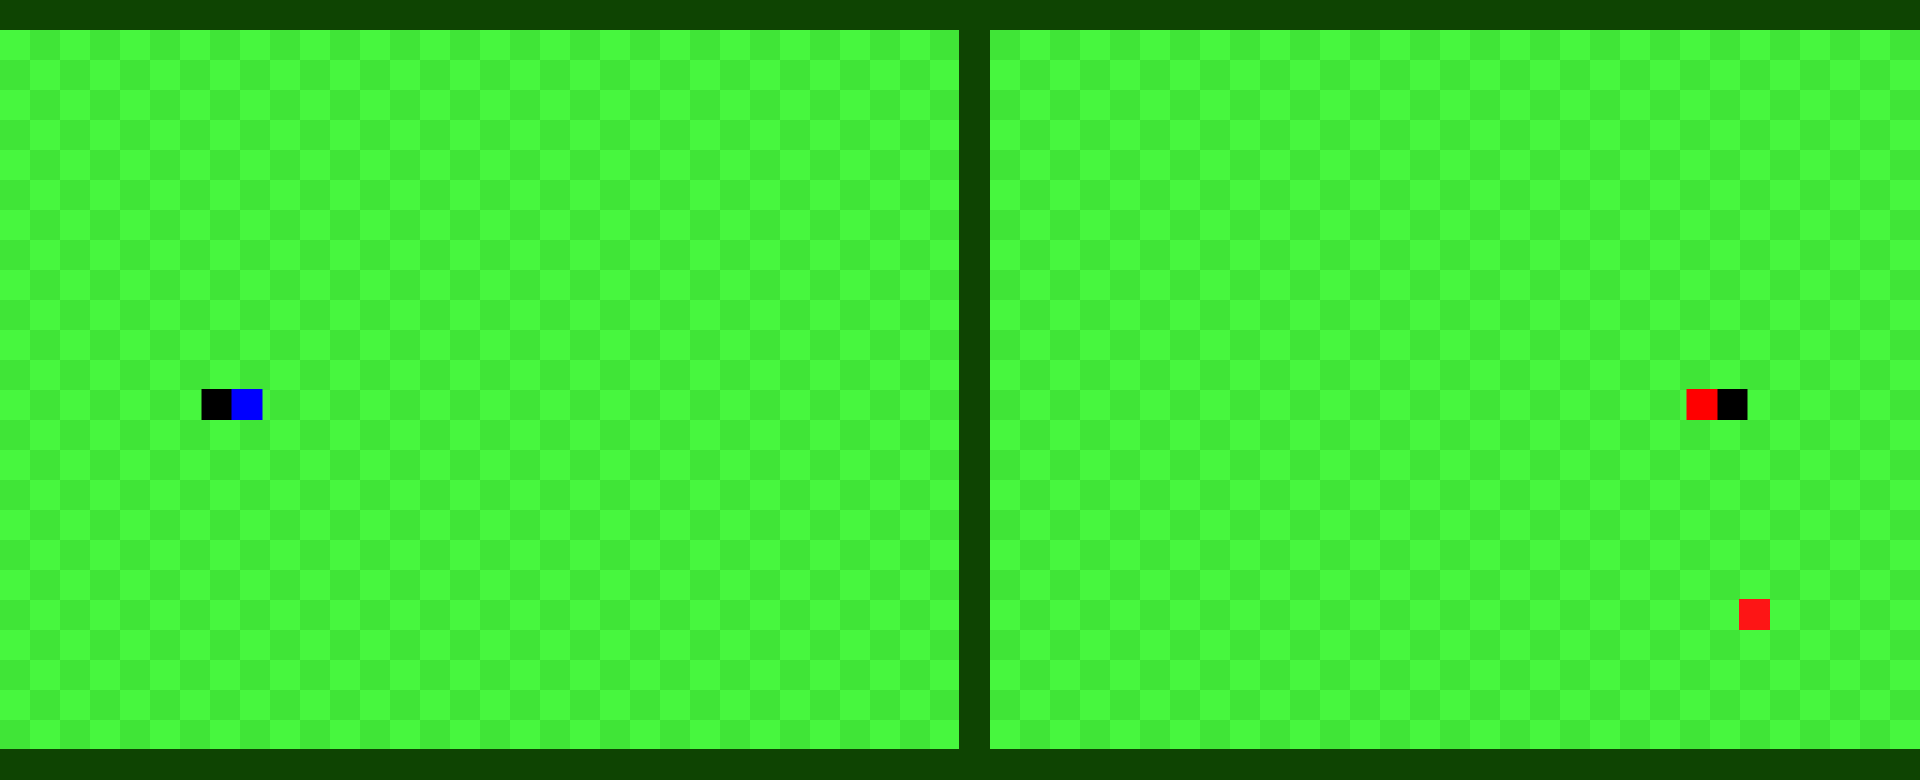
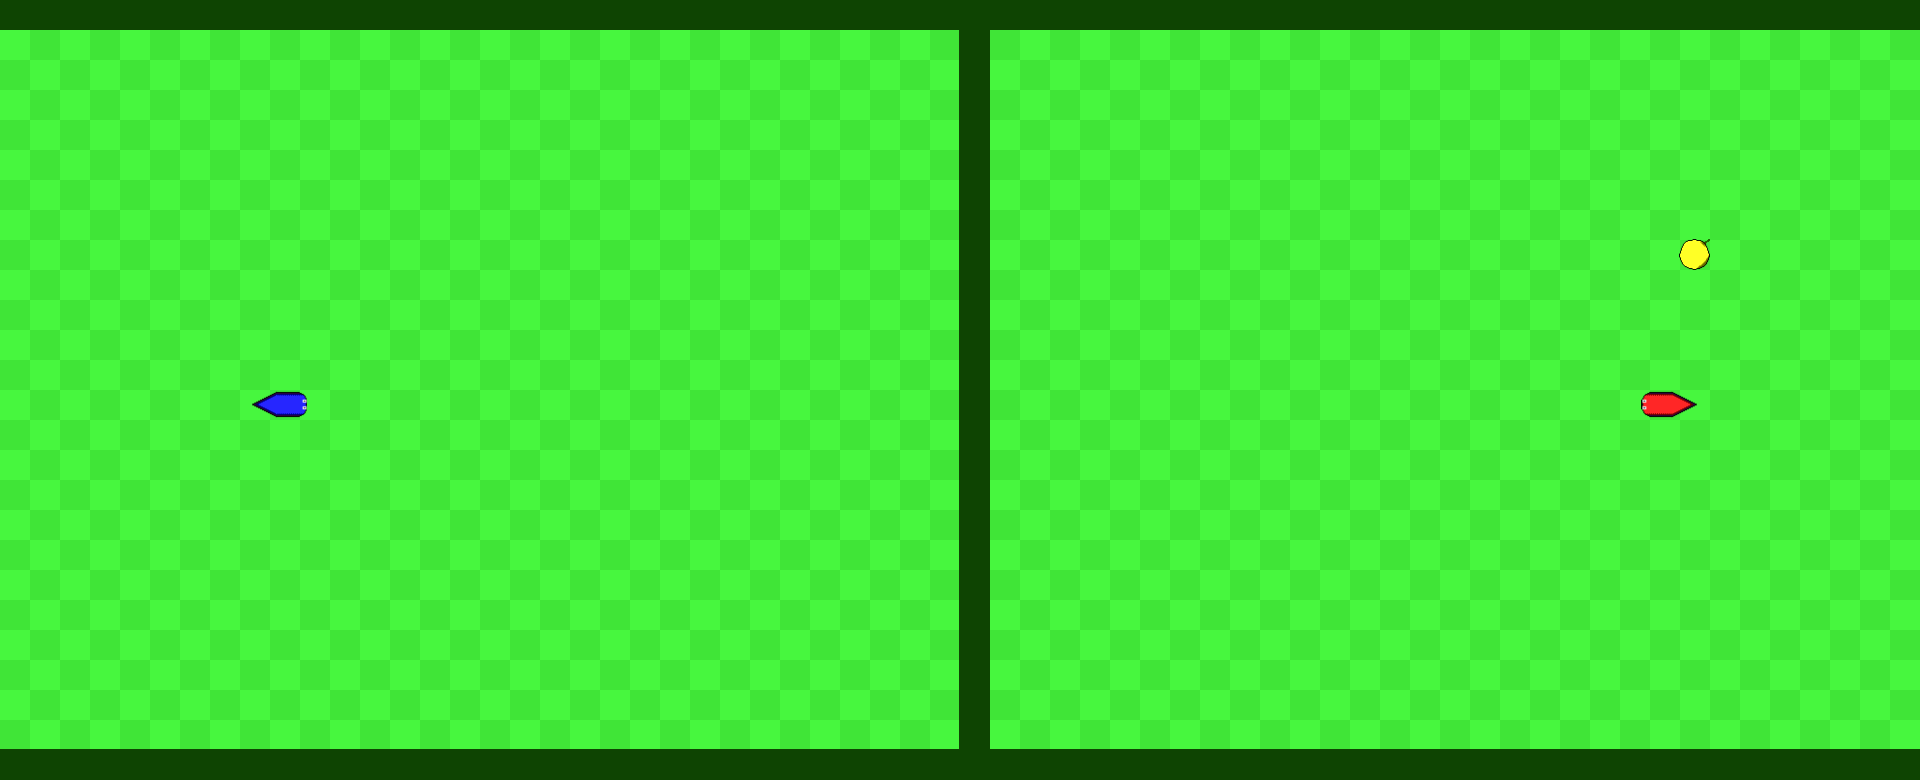
Most likely final update
Not sure, but we'll see

diff --git a/InheritEntity.js b/InheritEntity.js
@@ -25,7 +25,7 @@ Entity.prototype.update = function(){
 };
 
 
-function JogadorBloco(x, y, img, speedX, speedY, type){
+function JogadorBloco(x, y, img, speedX, speedY, t){
 	//Vai buscar o x, o y e o width do Entity, com o x, y defenidos NESTE CONSTRUTOR como PARAMETROS do construtor acima, para ele nos devolver as variaveis X, Y Width e Height
 	Entity.call(this, x, y);
 
@@ -42,7 +42,7 @@ function JogadorBloco(x, y, img, speedX, speedY, type){
 	this.Angle = 0;
 	this.OldAngleMult;
 	this.OldRotate = RotatingEnum.NOT;
-	this.Type=type;
+	this.T=t;
 }
 //Basicamente, o prototype(onde estão gravadas as funcoes e isso)do jogador bloco, sao feitas iguais aquelas do entity
 JogadorBloco.prototype= Object.create(Entity.prototype);
@@ -54,7 +54,6 @@ JogadorBloco.prototype.turn = function(){
 	if((this.Y-140)%(gridY)==0 && this.X%(gridX)==0){
 		this.OldRotate = RotatingEnum.NOT;
 		this.OldSpeedY = this.SpeedY; this.OldSpeedX=this.SpeedX;
-		console.log("x:"+this.OldSpeedX); console.log("y:"+this.OldSpeedY);
 
 		/*if((this.TurnH>0 && this.OldSpeedY>0) || (this.TurnV>0 && this.OldSpeedX>0)){
 			this.OldRotate = RotatingEnum.RIGHTBOTTOM;
@@ -70,8 +69,8 @@ JogadorBloco.prototype.turn = function(){
 			this.SpeedX=gridX*this.TurnH/speedValX; this.SpeedY=0;
 
 			if(this.TurnH>0 && (this.OldSpeedX!=0 || this.OldSpeedY!=0)) {
-				if(this.Type==1) this.Img=snake.cabecaR;
-				else if(this.Type==2) this.Img=snake.cabecaR2;
+				if(this.T==1) this.Img=snake.cabecaR;
+				else if(this.T==2) this.Img=snake.cabecaR2;
 				this.BImg=0;
 
 				if(this.OldSpeedY>0){
@@ -86,8 +85,8 @@ JogadorBloco.prototype.turn = function(){
 			}
 			
 			else{
-				if(this.Type==1) this.Img=snake.cabecaL;
-				else if(this.Type==2) this.Img=snake.cabecaL2;
+				if(this.T==1) this.Img=snake.cabecaL;
+				else if(this.T==2) this.Img=snake.cabecaL2;
 				this.BImg=1;
 
 				if(this.OldSpeedY>0) {
@@ -105,8 +104,8 @@ JogadorBloco.prototype.turn = function(){
 			this.SpeedY=gridY/speedValY*this.TurnV; this.SpeedX=0;
 
 			if(this.TurnV>0&& (this.OldSpeedX!=0 || this.OldSpeedY!=0)) {
-				if(this.Type==1) this.Img=snake.cabecaD;
-				else if(this.Type==2) this.Img=snake.cabecaD2;
+				if(this.T==1) this.Img=snake.cabecaD;
+				else if(this.T==2) this.Img=snake.cabecaD2;
 				this.BImg=2;
 
 				if(this.OldSpeedX>0) {
@@ -119,8 +118,8 @@ JogadorBloco.prototype.turn = function(){
 				} 
 			}
 			else {
-				if(this.Type==1) this.Img=snake.cabecaU;
-				else if(this.Type==2) this.Img=snake.cabecaU2;
+				if(this.T==1) this.Img=snake.cabecaU;
+				else if(this.T==2) this.Img=snake.cabecaU2;
 				this.BImg=3;
 			
 				if(this.OldSpeedX>0) {
@@ -162,8 +161,8 @@ JogadorBloco.prototype.checkCollide = function(objeto){
 };
 
 
-function JogadorCauda(x, y,img, speedX, speedY, type, rotation, speedMult ){
-	JogadorBloco.call(this, x, y, img, speedX, speedY, type);
+function JogadorCauda(x, y,img, speedX, speedY, t, rotation, speedMult ){
+	JogadorBloco.call(this, x, y, img, speedX, speedY, t);
 	this.Img=img;
 	this.StopSpeedX=0;
 	this.StopSpeedY=0;
@@ -240,37 +239,37 @@ JogadorCauda.prototype.followLast = function(arr, pos){
 		//console.log(arr[pos-1].OldSpeedX);
 		if(pos==arr.length-1){
 			if(arr[pos-1].OldSpeedX>0) {
-				if(this.Type==1) this.Img=snake.caudaR;
-				else if(this.Type==2) this.Img=snake.caudaR2;
+				if(this.T==1) this.Img=snake.caudaR;
+				else if(this.T==2) this.Img=snake.caudaR2;
 			}
 			else if(arr[pos-1].OldSpeedX<0) {
-				if(this.Type==1) this.Img=snake.caudaL;
-				else if(this.Type==2) this.Img=snake.caudaL2;
+				if(this.T==1) this.Img=snake.caudaL;
+				else if(this.T==2) this.Img=snake.caudaL2;
 			} 
 			else if(arr[pos-1].OldSpeedY>0) {
-				if(this.Type==1) this.Img=snake.caudaD;
-				else if(this.Type==2) this.Img=snake.caudaD2;
+				if(this.T==1) this.Img=snake.caudaD;
+				else if(this.T==2) this.Img=snake.caudaD2;
 			}
 			else if(arr[pos-1].OldSpeedY<0) {
-				if(this.Type==1) this.Img=snake.caudaU;
-				else if(this.Type==2) this.Img=snake.caudaU2;
+				if(this.T==1) this.Img=snake.caudaU;
+				else if(this.T==2) this.Img=snake.caudaU2;
 			}
 		} else {
 			if(arr[pos-1].OldSpeedX>0) {
-				if(this.Type==1) this.Img=snake.corpoR;
-				else if(this.Type==2) this.Img=snake.corpoR2;
+				if(this.T==1) this.Img=snake.corpoR;
+				else if(this.T==2) this.Img=snake.corpoR2;
 			} 
 			else if(arr[pos-1].OldSpeedX<0) {
-				if(this.Type==1) this.Img=snake.corpoL;
-				else if(this.Type==2) this.Img=snake.corpoL2;
+				if(this.T==1) this.Img=snake.corpoL;
+				else if(this.T==2) this.Img=snake.corpoL2;
 			}
 			else if(arr[pos-1].OldSpeedY>0) {
-				if(this.Type==1) this.Img=snake.corpoD;
-				else if(this.Type==2) this.Img=snake.corpoD2;
+				if(this.T==1) this.Img=snake.corpoD;
+				else if(this.T==2) this.Img=snake.corpoD2;
 			}
 			else if(arr[pos-1].OldSpeedY<0) {
-				if(this.Type==1) this.Img=snake.corpoU;
-				else if(this.Type==2) this.Img=snake.corpoU2;
+				if(this.T==1) this.Img=snake.corpoU;
+				else if(this.T==2) this.Img=snake.corpoU2;
 			}; 
 		}
 		
@@ -347,9 +346,9 @@ function Edible(x, y, type){
 	this.Type=type;
 	if(this.Type==0) {
 		this.Value=10;
-		this.Img=snake.corpoR;
+		this.Img=snake.e1;
 	} else if(this.Type==1){
-		this.Img=snake.corpoL;
+		this.Img=snake.e2;
 		this.Value=30;
 	} else if(this.Type==2) {
 		this.Color="#03E1DE";
@@ -370,7 +369,7 @@ function Obstacle(x, y, width, height){
 	this.Width=width;
 	this.Height=height;
 	this.SpeedX=0;
-	this.Color="#0E4402";
+	this.Img=wall;
 	this.SpeedY=0;
 }
 

diff --git a/main.js b/main.js
@@ -3,6 +3,7 @@ var bg= new Image();
 var menu_1_s= new Image();
 var scoreImg= new Image();
 var logo = new Image();
+var wall= new Image();
 var snake = {
 	cabecaU: new Image(),
 	cabecaD: new Image(),
@@ -27,7 +28,9 @@ var snake = {
 	caudaU2: new Image(),
 	caudaD2: new Image(),
 	caudaL2: new Image(),
-	caudaR2: new Image()
+	caudaR2: new Image(),
+	e1: new Image(),
+	e2: new Image()
 };
 snake.cabecaU.src= "Media/Images/cabecaU.fw.png";
 snake.cabecaD.src="Media/Images/cabecaD.fw.png";
@@ -53,11 +56,14 @@ snake.caudaU2.src= "Media/Images/caudaU2.fw.png";
 snake.caudaD2.src= "Media/Images/caudaD2.fw.png";
 snake.caudaL2.src= "Media/Images/caudaL2.fw.png";
 snake.caudaR2.src= "Media/Images/caudaR2.fw.png";
+snake.e1.src="Media/Images/e1.fw.png"
+snake.e2.src="Media/Images/e2.fw.png"
 menu_1.src="Media/Images/menu_1.fw.png";
 bg.src="Media/Images/naom_58b44e8732feb.jpg";
 menu_1_s.src="Media/Images/Menu_1_select.fw.png";
 scoreImg.src="Media/Images/score.fw.png";
 logo.src="Media/Images/Untitled-1.fw.png";
+wall.src="Media/Images/wall.fw.png";
 
 var tamJogador = [];
 var tamJogador2 = [];
@@ -89,6 +95,7 @@ function startup(type, l){
 	speedFlag= [0, 0];
 	loadedLvls = [];
 	win = 0;
+	console.log(type);
 
 	areaJogo.beginGame(type);
 
@@ -106,74 +113,10 @@ function startup(type, l){
 	tamJogador.push(new JogadorBloco(p1SX, p1SY, snake.cabecaR, gridX/speedValX, 0, 1));
 	tamJogador.push(new JogadorCauda(p1SX-gridX,  p1SY, snake.caudaR, tamJogador[0].SpeedX, tamJogador[0].SpeedY, 1, tamJogador[0].OldRotate, tamJogador[0].speedMult));
 
-	addEventListener("keydown", function(e) {
-			var i;
-
-			if(tamJogador[0].TurnH==0 && tamJogador[0].TurnV==0) {
-				switch (e.keyCode) {
-					case 87:
-						if(tamJogador[0].SpeedY==0) {
-							tamJogador[0].TurnV=-1; tamJogador[0].TurnH=0;
-						}
-
-						break;
-					case 83:
-						if(tamJogador[0].SpeedY==0) {
-							tamJogador[0].TurnV=1; tamJogador[0].TurnH=0;
-						}
-
-						break;
-					case 65:
-						if(tamJogador[0].SpeedX==0) {
-							tamJogador[0].TurnH=-1; tamJogador[0].TurnV=0;
-						}
-
-						break;
-					case 68:
-						if(tamJogador[0].SpeedX==0) {
-							tamJogador[0].TurnH=1; tamJogador[0].TurnV=0;
-						}
-
-						break;
-				}
-			}
-
-		}, false);
+	document.body.addEventListener("keydown", move1, false);
 
 	if(type==2) {
-		addEventListener("keydown", function(e) {
-			var i;
-
-			if(tamJogador2[0].TurnH==0 && tamJogador2[0].TurnV==0) {
-				switch (e.keyCode) {
-					case 38:
-						if(tamJogador2[0].SpeedY==0) {
-							tamJogador2[0].TurnV=-1; tamJogador2[0].TurnH=0;
-						}
-
-						break;
-					case 40:
-						if(tamJogador2[0].SpeedY==0) {
-							tamJogador2[0].TurnV=1; tamJogador2[0].TurnH=0;
-						}
-
-						break;
-					case 37:
-						if(tamJogador2[0].SpeedX==0) {
-							tamJogador2[0].TurnH=-1; tamJogador2[0].TurnV=0;
-						}
-
-						break;
-					case 39:
-						if(tamJogador2[0].SpeedX==0) {
-							tamJogador2[0].TurnH=1; tamJogador2[0].TurnV=0;
-						}
-
-						break;
-				}
-			}
-
-		}, false);
+		document.body.addEventListener("keydown", move2, false);
 
 		tamJogador2.push(new JogadorBloco(p2SX, p2SY, snake.cabecaL2, -gridX/speedValX, 0, 2));
 		tamJogador2.push(new JogadorCauda(p2SX+gridX,  p2SY, snake.caudaL2, tamJogador2[0].SpeedX, tamJogador2[0].SpeedY, 2, tamJogador2[0].OldRotate, tamJogador2[0].speedMult));
@@ -431,7 +374,9 @@ function updateArea(){
 		}
 		
 		document.getElementById("deathOverlay").innerHTML+="<span id='exit' onclick='openMenu();'></span>";
-		document.getElementById("exit").style.left = areaJogo.canvas.width/2-200 + "px"; document.getElementById("exit").style.bottom = '10px'
+		document.getElementById("exit").style.left = areaJogo.canvas.width/2-200 + "px"; document.getElementById("exit").style.bottom = '10px';
+		document.body.removeEventListener("keydown", move1);
+		if(areaJogo.type==2) document.body.removeEventListener("keydown", move2);
 	}
 }
 //Calculos matemeticos complicadíssimos para gerar a sorte um ponto a volta do jogador num range (so na largura) de 10 blocos da grelha.
@@ -561,4 +506,69 @@ function spawnCheck(right, left, down, up, obj) {
 	}
 
 	return 0;		
+}
+
+function move1(e) {
+	var i;
+	if(tamJogador[0].TurnH==0 && tamJogador[0].TurnV==0) {
+		switch (e.keyCode) {
+			case 87:
+				if(tamJogador[0].SpeedY==0) {
+					tamJogador[0].TurnV=-1; tamJogador[0].TurnH=0;
+				}
+
+				break;
+			case 83:
+				if(tamJogador[0].SpeedY==0) {
+					tamJogador[0].TurnV=1; tamJogador[0].TurnH=0;
+				}
+
+				break;
+			case 65:
+				if(tamJogador[0].SpeedX==0) {
+					tamJogador[0].TurnH=-1; tamJogador[0].TurnV=0;
+				}
+
+				break;
+			case 68:
+				if(tamJogador[0].SpeedX==0) {
+					tamJogador[0].TurnH=1; tamJogador[0].TurnV=0;
+				}
+
+				break;
+		}
+	}
+}
+
+function move2(e) {
+	var i;
+
+	if(tamJogador2[0].TurnH==0 && tamJogador2[0].TurnV==0) {
+		switch (e.keyCode) {
+			case 38:
+				if(tamJogador2[0].SpeedY==0) {
+					tamJogador2[0].TurnV=-1; tamJogador2[0].TurnH=0;
+				}
+
+				break;
+			case 40:
+				if(tamJogador2[0].SpeedY==0) {
+					tamJogador2[0].TurnV=1; tamJogador2[0].TurnH=0;
+				}
+
+				break;
+			case 37:
+				if(tamJogador2[0].SpeedX==0) {
+					tamJogador2[0].TurnH=-1; tamJogador2[0].TurnV=0;
+				}
+
+				break;
+			case 39:
+				if(tamJogador2[0].SpeedX==0) {
+					tamJogador2[0].TurnH=1; tamJogador2[0].TurnV=0;
+				}
+
+				break;
+		}
+	}
 }
